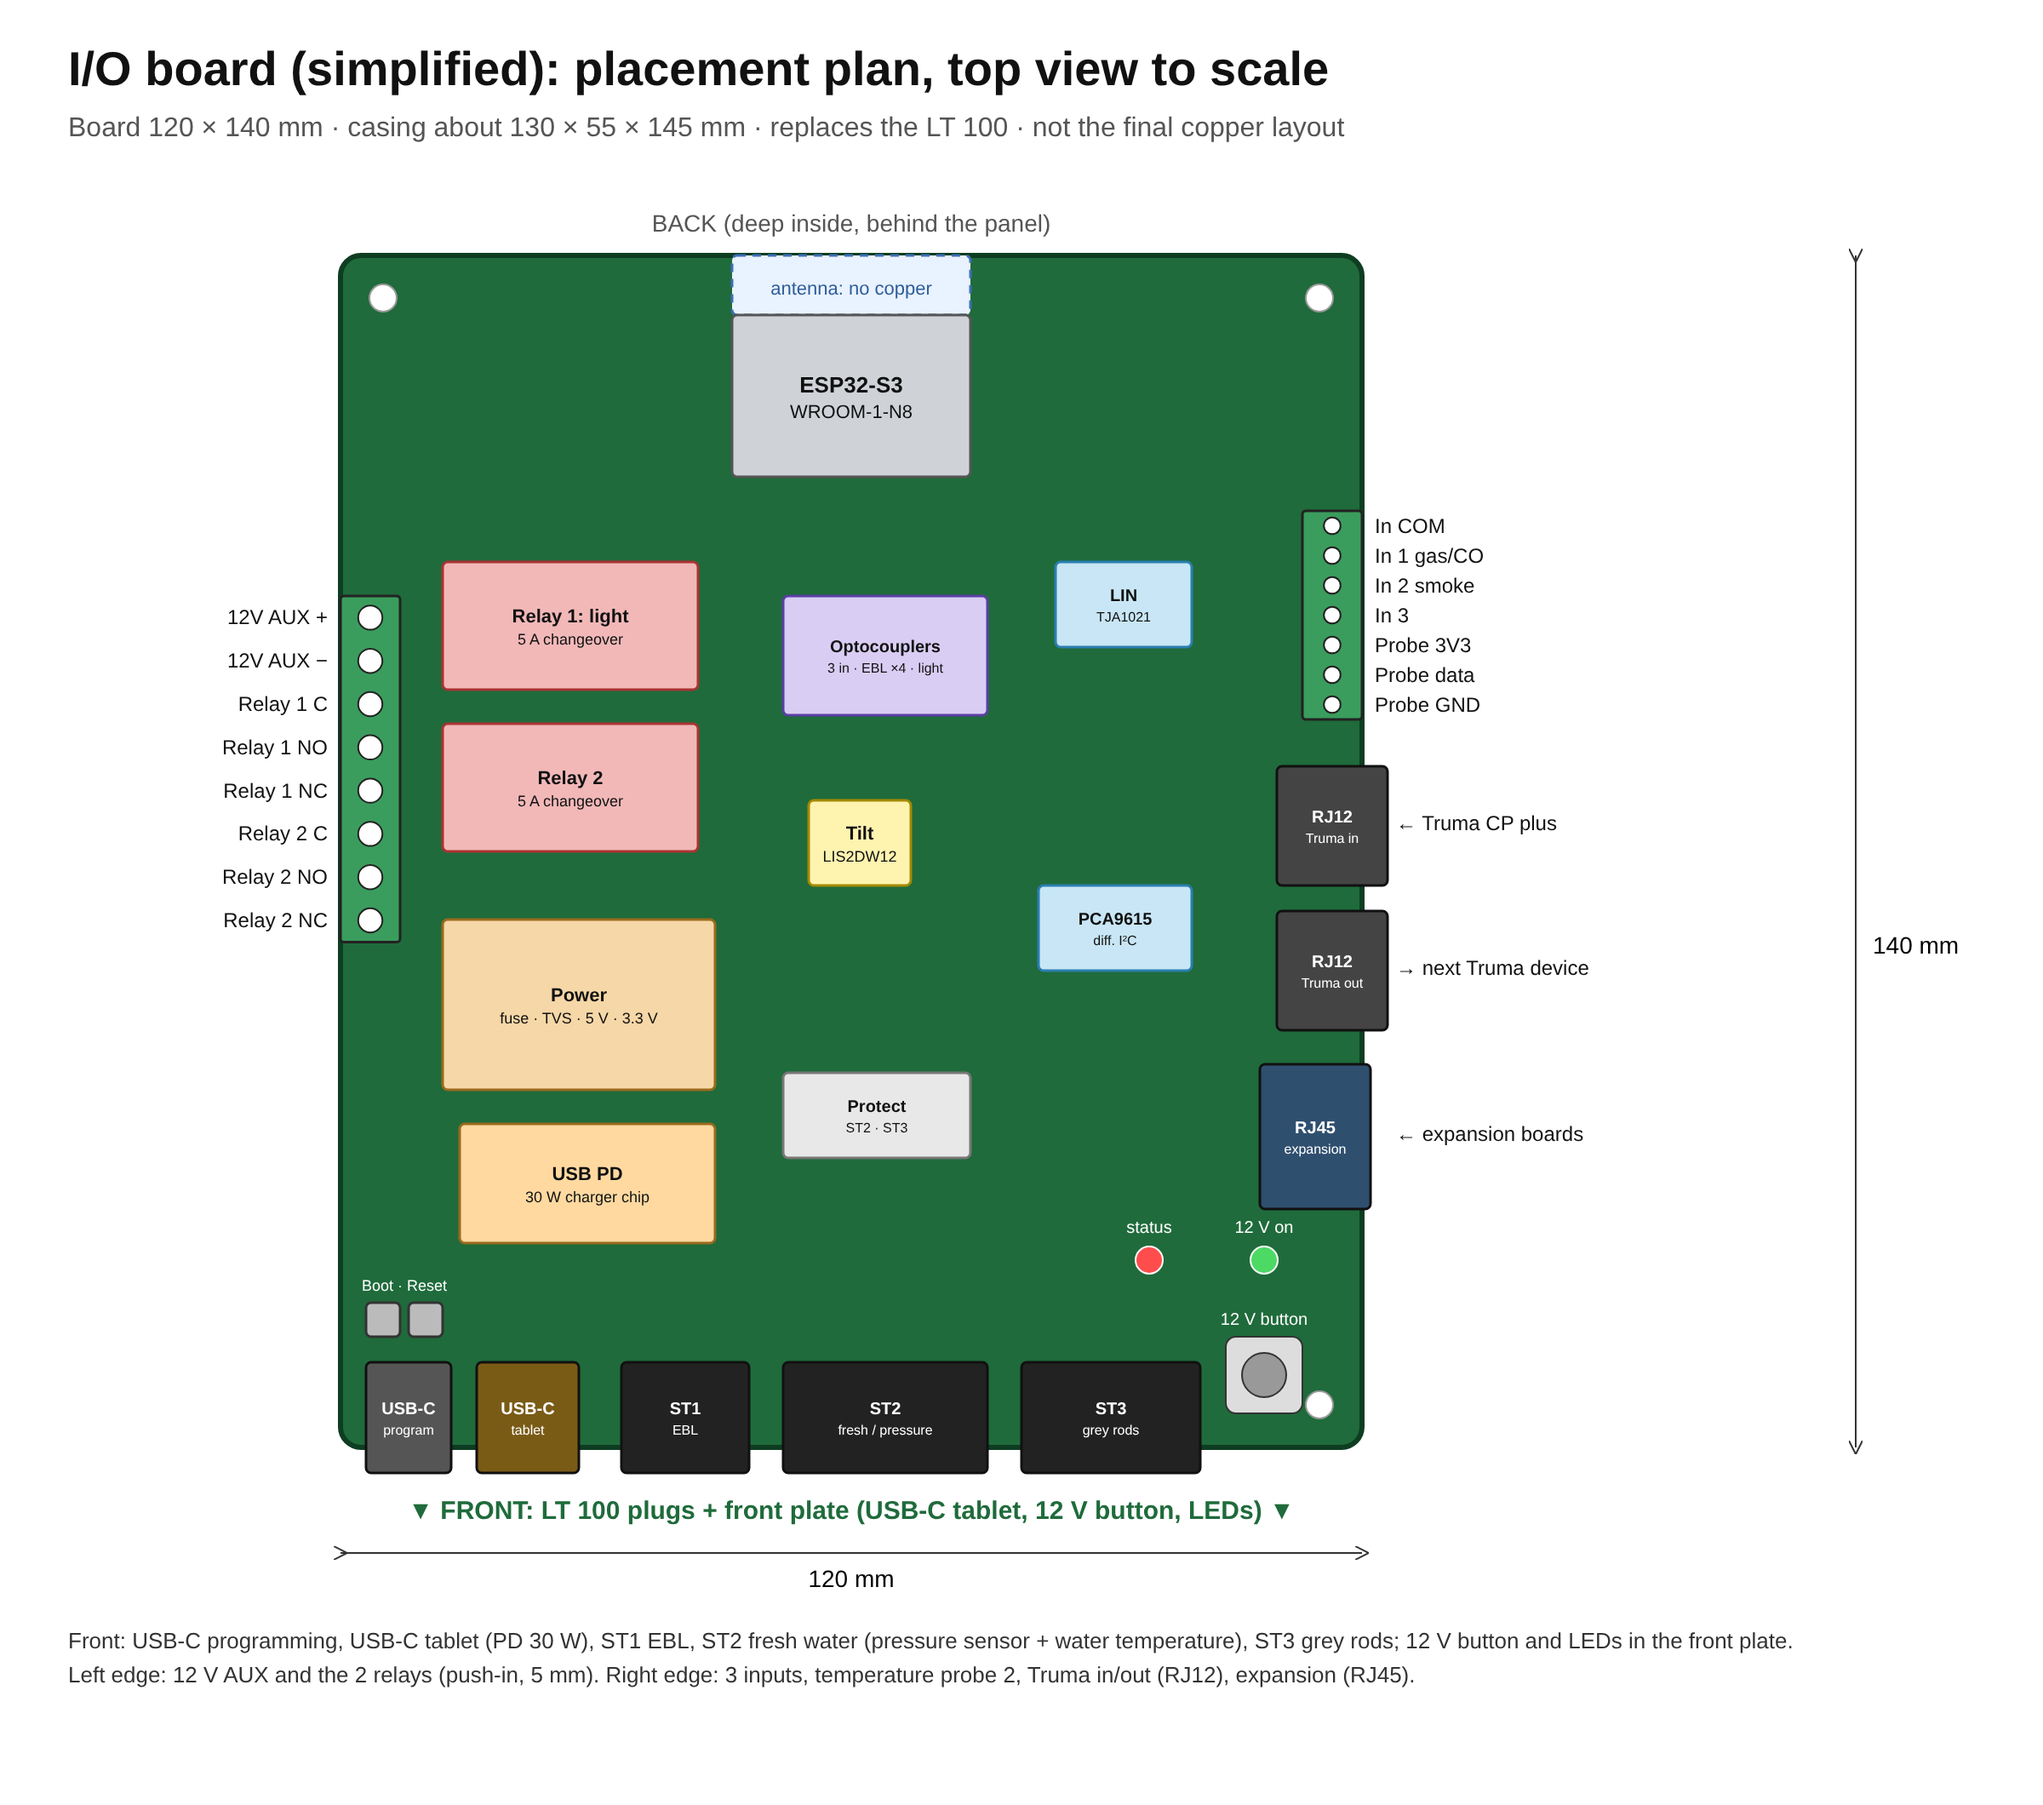
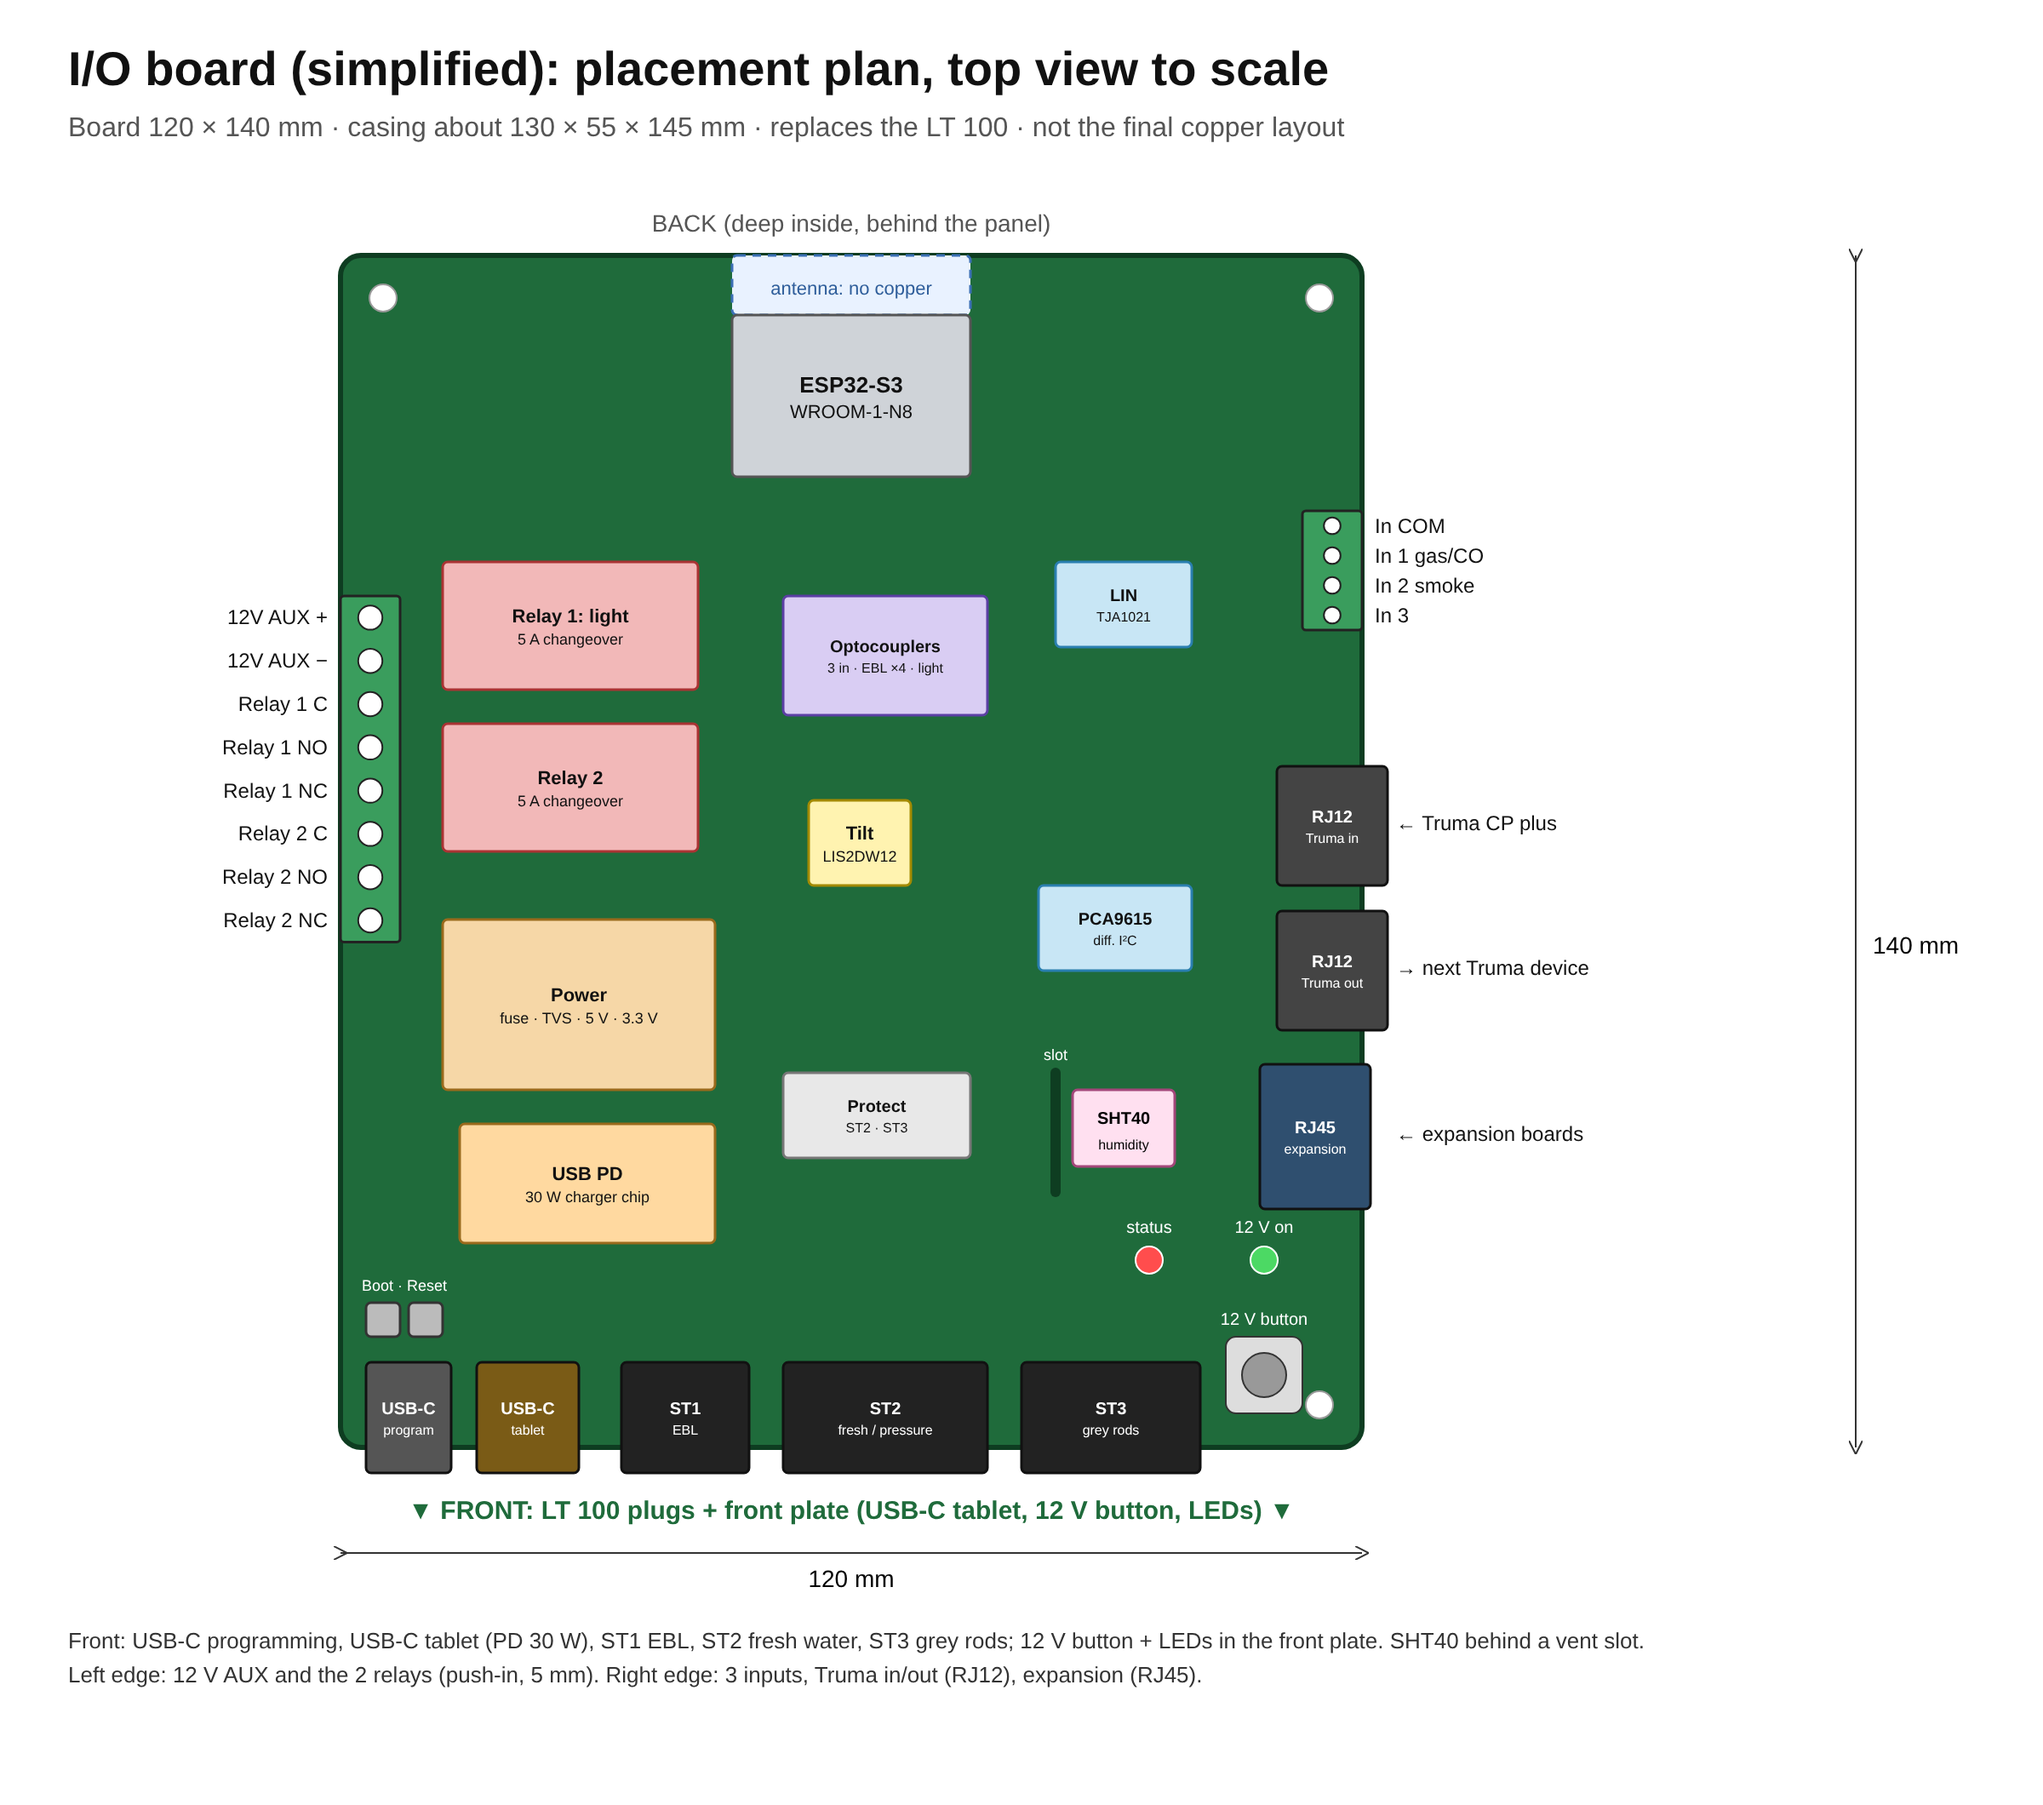
I/O board spec: onboard humidity/temperature sensor instead of probe 2 (#77)
* Mods page: clean Water and Heater tabs, dial thermostat, settings folded below

Claude-Session: https://claude.ai/code/session_017Ac5dLa5nMit1aiT2DcVLT

* Mods page: remove the Pi power supply card from the Overview

The small Low power chip top right stays, only while the supply is too low.

Claude-Session: https://claude.ai/code/session_017Ac5dLa5nMit1aiT2DcVLT

* Mods page: update progress stays when you switch tabs and come back

The progress of the Venus OS mods update (Update tab) and of the sensor
firmware update (Water tab) is kept outside the tab and shown again on
return; after a reload a running update is picked up and followed.

Claude-Session: https://claude.ai/code/session_017Ac5dLa5nMit1aiT2DcVLT

* Sensor update log says Wi-Fi when the Pi talks to the sensor over Wi-Fi

The water driver sends the firmware over its own link, which is the Wi-Fi
network when it reaches the sensor that way; the log said Bluetooth.

Claude-Session: https://claude.ai/code/session_017Ac5dLa5nMit1aiT2DcVLT

* Update log kept on the Update tab; Water debug log shows Wi-Fi readings

- Update tab: the log of the last update is shown below (folded). After an
  update the page reloads onto the Update tab with that log open; it also
  stays when the check fails while the page server restarts.
- Debug -> Water: over Wi-Fi the reading is written too (when it changes,
  else once a minute); before only Bluetooth broadcasts were logged.
- Version 2.5.1.
[…]

diff --git a/docs/io-board.md b/docs/io-board.md
@@ -22,10 +22,10 @@ measured, the schematic is next.
 | 3 inputs | Isolated (optocoupler), 5–30 V; jumper per input: "12 V on alarm" or "switches to ground" | push-in |
 | 2 outputs, 5 A | Relays with changeover contact (C / NO / NC), 5 A at 14 V DC, LED each. **Output 1 = light** (two-way with the wall switch, with "light on" sense), output 2 free | push-in |
 | Tilt | Accelerometer LIS2DW12: levelling, water tank slope correction, movement | on the board |
-| Temperature probe 2 | DS18B20 ("under the van") | push-in |
+| Humidity + temperature | **SHT40** on the board (I²C), in the front plate area behind a vent slot, cut off from the warm parts by a slot in the board; replaces temperature probe 2 | on the board |
 | **Expansion (RJ45)** | 12 V, ground and I²C for expansion boards (more inputs/outputs later), I²C as a differential pair (PCA9615) so the cable can be several metres | RJ45 |
 | Status | RGB status LED (front plate) | – |
-| Removed (simplified) | CAN, MOSFET outputs, analog inputs, 8 inputs → 3, display power out, spare header, I/O expander and ADC chips, separate PRESSURE socket | – |
+| Removed (simplified) | CAN, MOSFET outputs, analog inputs, 8 inputs → 3, display power out, spare header, I/O expander and ADC chips, separate PRESSURE socket, temperature probe 2 | – |
 
 ## Size and casing
 
@@ -167,7 +167,7 @@ All functions fit on the ESP32's own pins; no I/O expander or ADC chip.
 | Function | GPIO |
 |---|---|
 | Pressure sensor (ST2 green) | 4 |
-| Temperature probe 1 (water, ST2 yellow) / 2 | 5 / 6 |
+| Temperature probe (water, ST2 yellow) | 5 |
 | Grey rods ST3: common / rods (lowest first) | 9 / 1, 2, 7, 8 |
 | Leisure battery voltage (ST1 blue, divider) | 10 |
 | I²C (tilt sensor, expansion) | 15, 16 |
@@ -182,9 +182,10 @@ All functions fit on the ESP32's own pins; no I/O expander or ADC chip.
 | USB tablet socket on/off | 41 |
 | RGB status LED | 48 |
 | USB-C programming | 19, 20 |
+| Free | 6 |
 | Kept free | 0, 3, 45, 46 (strapping) |
 
-I²C address: LIS2DW12 0x18; expansion boards use other addresses.
+I²C addresses: LIS2DW12 0x18, SHT40 0x44; expansion boards use other addresses.
 
 ## Protection
 
@@ -201,6 +202,7 @@ I²C address: LIS2DW12 0x18; expansion boards use other addresses.
 * Tanks: fresh water in litres (pressure sensor), grey water from the rods.
 * Inputs: gas/CO and smoke as Venus OS alarms and notifications.
 * Outputs: light and output 2 as switches in Venus OS (switch pane) and on the tablet.
+* Humidity and temperature in the living area: Venus OS temperature service (with humidity), condensation warning.
 * Tilt: levelling page (pitch, roll, how much to raise which wheel), water volume corrected for
   slope, "set level" calibration, movement alarm.
 
